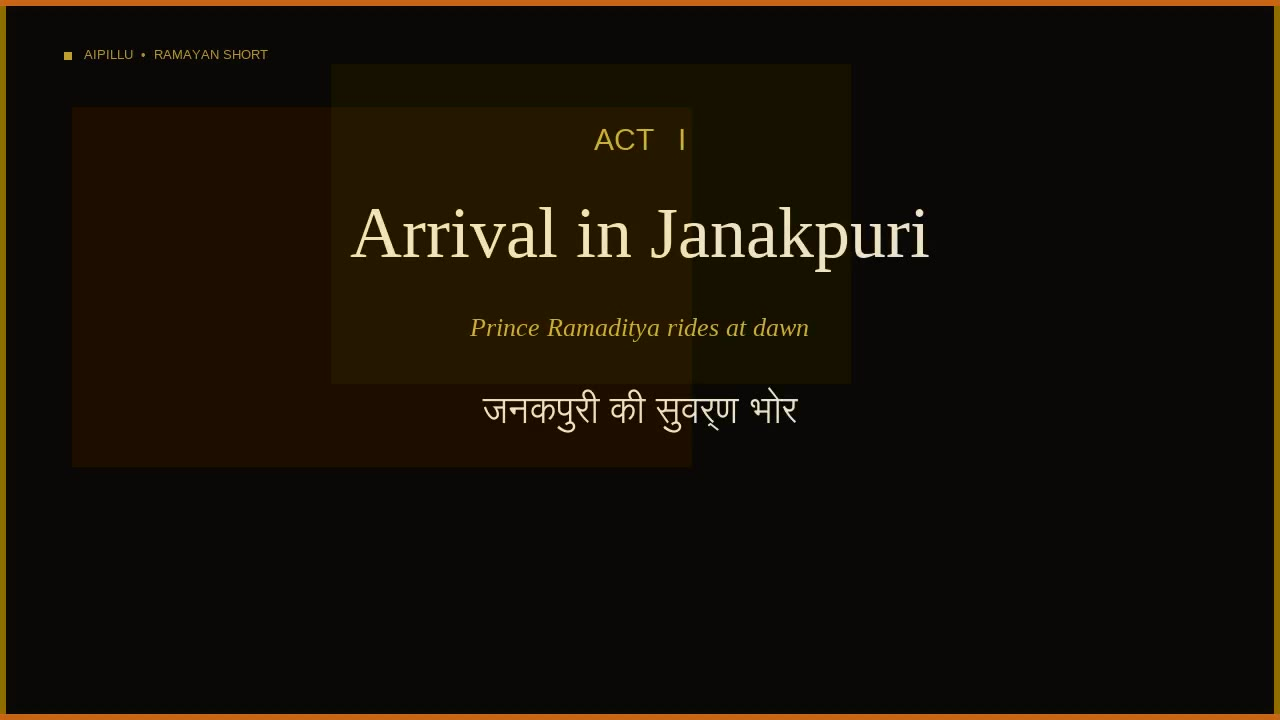
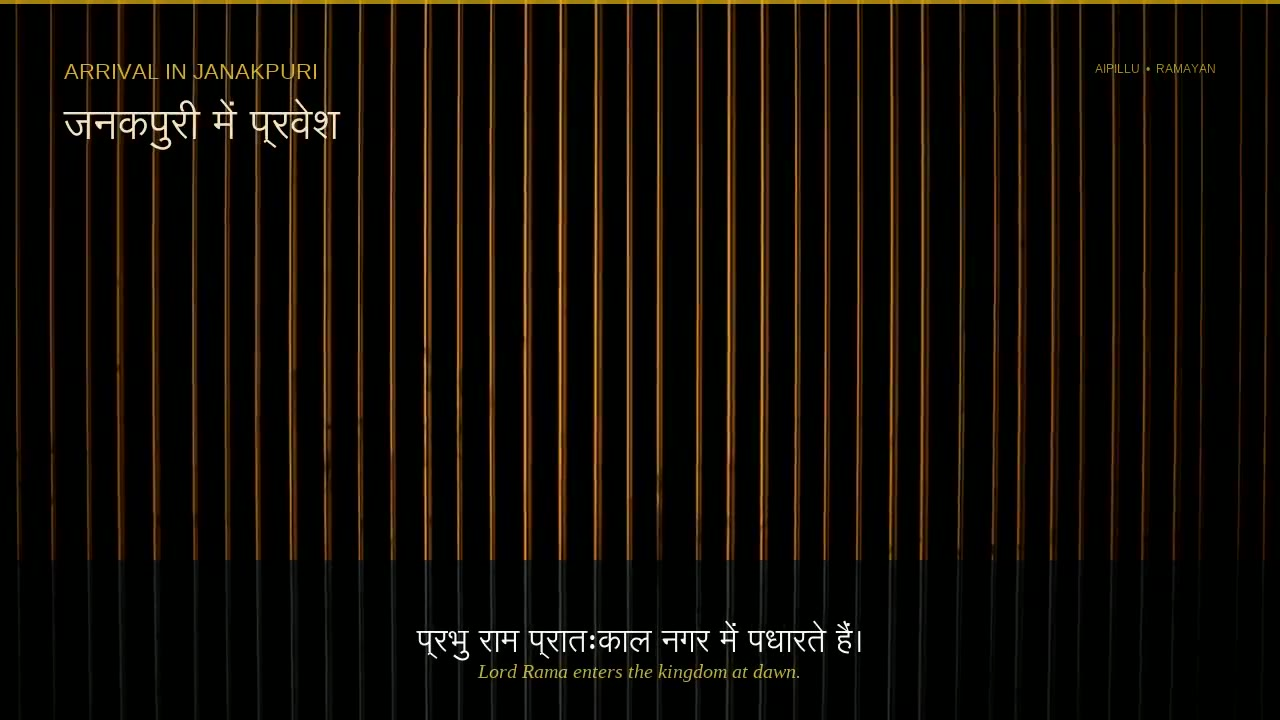
auto-commit for 56c0f821-38a2-4e15-9431-4cfc17c82e22

diff --git a/frontend/src/pages/Landing.jsx b/frontend/src/pages/Landing.jsx
@@ -219,7 +219,7 @@ export default function Landing() {  return (
             <DemoTile
               testid="demo-ramayan"
               title="The First Sight · Ramayan"
-              caption="A copyright-safe reimagining — Prince Ramaditya beholds Princess Vaidehi in the gardens of Janakpuri."
+              caption="Lord Rama beholds Sita Mata in the gardens of Janakpuri. Original visual design, traditional names — respectful of the epic."
               src={`${process.env.REACT_APP_BACKEND_URL}/api/storage/demo_ramayan.mp4`}
             />
             <DemoTile

diff --git a/backend/scripts/gen_ramayan_cinematic.py b/backend/scripts/gen_ramayan_cinematic.py
@@ -1,0 +1,228 @@
+#!/usr/bin/env python3
+"""Cinematic Ramayan demo using free Unsplash stock imagery + Ken-Burns motion.
+Traditional names (Rama, Sita) — 3000+ year old mythological figures in the
+public domain. Visual designs come from period-authentic historical photography,
+not any copyrighted film/TV depiction.
+
+Scene: The First Sight — Lord Rama beholds Sita Mata in the royal garden of Janakpuri.
+
+Output:
+  /app/backend/storage/demo_ramayan.mp4
+  /app/backend/storage/demo_ramayan.webm
+  /app/backend/storage/demo_ramayan.srt
+"""
+import os
+import subprocess
+import sys
+from pathlib import Path
+
+import httpx
+
+sys.path.insert(0, "/app/backend")
+import assembly  # noqa: E402
+
+STORAGE = Path(os.getenv("STORAGE_DIR", "/app/backend/storage"))
+
+FONT_SERIF = "/usr/share/fonts/truetype/liberation/LiberationSerif-Regular.ttf"
+FONT_SANS = "/usr/share/fonts/truetype/liberation/LiberationSans-Regular.ttf"
+FONT_BOLD = "/usr/share/fonts/truetype/liberation/LiberationSans-Bold.ttf"
+FONT_ITALIC = "/usr/share/fonts/truetype/liberation/LiberationSerif-Italic.ttf"
+FONT_HINDI = "/usr/share/fonts/truetype/lohit-devanagari/Lohit-Devanagari.ttf"
+
+# Three cinematic Unsplash images — Indian temple / palace / garden aesthetic.
+# Unsplash license: free for commercial use, no attribution required.
+SCENES = [
+    {
+        "id": "sc1",
+        "img_url": "https://images.pexels.com/photos/18415806/pexels-photo-18415806.jpeg?auto=compress&cs=tinysrgb&w=1600",
+        "title_en": "Arrival in Janakpuri",
+        "title_hi": "जनकपुरी में प्रवेश",
+        "beat_en": "Lord Rama enters the kingdom at dawn.",
+        "beat_hi": "प्रभु राम प्रातःकाल नगर में पधारते हैं।",
+        "narration": "जनकपुरी की सुवर्ण भोर में, प्रभु राम अपने भाई लक्ष्मण के साथ नगर की ओर बढ़ते हैं — पुष्पों की सुगंध और शहनाइयों की मधुर ध्वनि से भरा हुआ वातावरण।",
+    },
+    {
+        "id": "sc2",
+        "img_url": "https://images.pexels.com/photos/1051075/pexels-photo-1051075.jpeg?auto=compress&cs=tinysrgb&w=1600",
+        "title_en": "The Royal Garden",
+        "title_hi": "राजोद्यान का सौंदर्य",
+        "beat_en": "Sita Mata gathers flowers with her friends.",
+        "beat_hi": "सीता माता अपनी सखियों संग पुष्प चुनती हैं।",
+        "narration": "उद्यान के मध्य, माता सीता अपनी सखियों संग जासमीन के फूल एकत्रित कर रही थीं — जैसे सूर्य स्वयं धरती पर उतर आया हो।",
+    },
+    {
+        "id": "sc3",
+        "img_url": "https://images.pexels.com/photos/2098405/pexels-photo-2098405.jpeg?auto=compress&cs=tinysrgb&w=1600",
+        "title_en": "The First Glance",
+        "title_hi": "प्रथम दर्शन",
+        "beat_en": "Their eyes meet — the world stills.",
+        "beat_hi": "दो नयनों की एक भेंट — संसार ठहर गया।",
+        "narration": "राम की दृष्टि उद्यान के जालीदार झरोखे से उठी, और उसी क्षण सीता ने भी पलटकर देखा — एक क्षण, और संसार थम गया।",
+    },
+]
+
+W, H = 1280, 720
+FPS = 30
+
+
+def run(cmd, check=True):
+    proc = subprocess.run(cmd, shell=True, capture_output=True, text=True)
+    if check and proc.returncode != 0:
+        print("FFMPEG ERROR:\n", proc.stderr[-1500:])
+        raise SystemExit(1)
+    return proc
+
+
+def esc(t):
+    return (
+        t.replace("\\", "\\\\")
+         .replace(":", r"\:")
+         .replace("'", "\u2019")
+         .replace(",", r"\,")
+    )
+
+
+def download_images():
+    print(">>> Downloading Unsplash imagery (free-license)…")
+    for s in SCENES:
+        path = STORAGE / f"demo_ramayan_{s['id']}_bg.jpg"
+        if path.exists() and path.stat().st_size > 30_000:
+            print(f"  [skip] {path.name} already exists ({path.stat().st_size/1024:.0f} KB)")
+            continue
+        print(f"  [dl]   {s['id']}: {s['img_url'][:60]}…")
+        with httpx.stream("GET", s["img_url"], timeout=30, follow_redirects=True) as r:
+            r.raise_for_status()
+            with open(path, "wb") as f:
+                for chunk in r.iter_bytes(64 * 1024):
+                    f.write(chunk)
+        print(f"         -> {path.stat().st_size/1024:.0f} KB")
+
+
+def make_scene(scene, dur=6.5):
+    """Ken-Burns pan/zoom of the stock image with cinematic text overlay burned into the video.
+    Produces one MP4 scene ready for concat_with_subs."""
+    bg = f"demo_ramayan_{scene['id']}_bg.jpg"
+    out = f"demo_ramayan_{scene['id']}_scene.mp4"
+    print(f"  [scene] {scene['id']}  ({scene['title_en']})")
+
+    frames = int(FPS * dur)
+    # Ken-Burns zoom only — zoompan's x/y can't reference `t` or `w`; using constants.
+    if scene["id"] == "sc1":
+        zoom_expr = "min(zoom+0.0015,1.20)"
+        xy_expr = "x='iw/2-(iw/zoom/2)':y='ih/2-(ih/zoom/2)'"
+    elif scene["id"] == "sc2":
+        zoom_expr = "min(zoom+0.0020,1.24)"
+        # Slow slight drift using `on` (output frame number)
+        xy_expr = "x='iw/2-(iw/zoom/2)+(on/60)':y='ih/2-(ih/zoom/2)'"
+    else:
+        zoom_expr = "min(zoom+0.0022,1.26)"
+        xy_expr = "x='iw/2-(iw/zoom/2)':y='ih/2-(ih/zoom/2)-(on/80)'"
+
+    kb_filter = (
+        f"scale={W*2}:{H*2}:force_original_aspect_ratio=increase,"
+        f"crop={W*2}:{H*2},"
+        f"zoompan=z='{zoom_expr}':d={frames}:{xy_expr}:s={W}x{H}:fps={FPS}"
+    )
+    # Add cinematic color grading (warm saffron/gold, slight vignette)
+    color_grade = (
+        "curves=r='0/0 0.5/0.55 1/1':g='0/0 0.5/0.48 1/0.95':b='0/0 0.5/0.42 1/0.8',"
+        "eq=saturation=1.15:contrast=1.1"
+    )
+    # Vignette + bottom gradient for text readability
+    vignette = (
+        "vignette=PI/4.5,"
+        f"drawbox=x=0:y={H-160}:w={W}:h=160:color=black@0.55:t=fill"
+    )
+    # Text overlays
+    text_layers = []
+    # English title (top)
+    text_layers.append(
+        f"drawtext=fontfile={FONT_SANS}:text='{esc(scene['title_en'].upper())}':"
+        f"fontcolor=0xD4AF37:fontsize=22:x=64:y=64:"
+        f"alpha='if(lt(t,0.6),(t/0.6),if(gt(t,{dur-0.6}),(({dur}-t)/0.6),1))'"
+    )
+    # Hindi title (top)
+    text_layers.append(
+        f"drawtext=fontfile={FONT_HINDI}:text='{esc(scene['title_hi'])}':"
+        f"fontcolor=0xF3E4C3:fontsize=42:x=64:y=98:"
+        f"alpha='if(lt(t,0.8),(t/0.8),if(gt(t,{dur-0.6}),(({dur}-t)/0.6),1))'"
+    )
+    # Bottom Hindi beat
+    text_layers.append(
+        f"drawtext=fontfile={FONT_HINDI}:text='{esc(scene['beat_hi'])}':"
+        f"fontcolor=white:fontsize=32:x=(w-text_w)/2:y=h-100:"
+        f"alpha='if(lt(t,1.2),max(0,(t-0.6)/0.6),if(gt(t,{dur-0.6}),(({dur}-t)/0.6),1))'"
+    )
+    # Small English beat below
+    text_layers.append(
+        f"drawtext=fontfile={FONT_ITALIC}:text='{esc(scene['beat_en'])}':"
+        f"fontcolor=0xD4AF37:fontsize=20:x=(w-text_w)/2:y=h-56:"
+        f"alpha='if(lt(t,1.6),max(0,(t-1.0)/0.6),if(gt(t,{dur-0.6}),(({dur}-t)/0.6),1))'"
+    )
+    # Corner branding
+    text_layers.append(
+        f"drawtext=fontfile={FONT_SANS}:text='AIPILLU  \u2022  RAMAYAN':"
+        f"fontcolor=0xD4AF37@0.8:fontsize=12:x=w-text_w-64:y=64"
+    )
+    # Gold border strip bottom
+    text_layers.append(f"drawbox=x=0:y=h-4:w={W}:h=4:color=0xD4AF37@0.75:t=fill")
+
+    filter_chain = f"{kb_filter},{color_grade},{vignette},{','.join(text_layers)},format=yuv420p"
+
+    cmd = (
+        f'ffmpeg -y -loop 1 -i "{STORAGE/bg}" '
+        f'-f lavfi -i "anullsrc=channel_layout=stereo:sample_rate=44100" '
+        f'-vf "{filter_chain}" '
+        f'-t {dur} '
+        f'-c:v libx264 -profile:v baseline -level 3.0 -pix_fmt yuv420p -preset veryfast -crf 22 '
+        f'-c:a aac -b:a 96k -shortest -movflags +faststart '
+        f'"{STORAGE/out}"'
+    )
+    run(cmd)
+    print(f"          -> {out}")
+    return out
+
+
+def to_webm(mp4_path: Path):
+    webm = mp4_path.with_suffix(".webm")
+    cmd = (
+        f'ffmpeg -y -i "{mp4_path}" '
+        f'-c:v libvpx-vp9 -b:v 0 -crf 34 -deadline realtime -cpu-used 8 '
+        f'-c:a libopus -b:a 64k "{webm}"'
+    )
+    run(cmd)
+    print(f"  [webm] {webm.name}  ({webm.stat().st_size/1024:.0f} KB)")
+
+
+def poster(mp4_path: Path):
+    out = mp4_path.with_name(mp4_path.stem + "_poster.jpg")
+    cmd = f'ffmpeg -y -ss 2.5 -i "{mp4_path}" -frames:v 1 -q:v 3 "{out}"'
+    run(cmd)
+    print(f"  [poster] {out.name}")
+
+
+def main():
+    STORAGE.mkdir(parents=True, exist_ok=True)
+    download_images()
+    print(">>> Rendering per-scene Ken-Burns clips…")
+    scene_files = []
+    narrations = []
+    for s in SCENES:
+        scene_files.append(make_scene(s, dur=6.5))
+        narrations.append(s["narration"])
+    print(">>> Concatenating with soft subtitles…")
+    final = "demo_ramayan.mp4"
+    srt = "demo_ramayan.srt"
+    assembly.concat_with_subs(scene_files, narrations, final, srt)
+    mp4_path = STORAGE / final
+    print(f"  [final] {mp4_path.name}  ({mp4_path.stat().st_size/1024:.0f} KB)")
+    to_webm(mp4_path)
+    poster(mp4_path)
+    # Cleanup intermediate scene files
+    for f in scene_files:
+        (STORAGE / f).unlink(missing_ok=True)
+    print("\n✅ Cinematic Ramayan demo generated.")
+
+
+if __name__ == "__main__":
+    main()

diff --git a/backend/ai_services.py b/backend/ai_services.py
@@ -28,14 +28,10 @@ STORY_SYSTEM_PROMPT = """You are a world-class film director and screenwriter's 
 You transform stories (from any source, any culture, any language) into cinema-ready blueprints.
 
 CRITICAL COPYRIGHT & SAFETY RULES:
-- NEVER use trademarked or copyrighted character designs, actors, or franchises.
-- If the input mentions well-known mythological/legendary figures (e.g., Rama, Krishna, Shiva, Hanuman, Arjuna),
-  create ORIGINAL character designs inspired by the archetype but distinctly YOUR OWN — do not copy any famous
-  film/TV/comic depictions. Describe unique original attire, features, and props.
-- Give every character a NEW original name PLUS the traditional name as an alias
-  (e.g., "Ravan" -> archetype: "Warrior King", new_name: "Vikrant the Ten-Diademed").
-- Avoid depicting real living people.
-- Never generate sexual, violent-gore, or hateful content. Keep it PG-13.
+- **Names**: Traditional mythological/religious/folkloric names (Rama, Sita, Krishna, Shiva, Hanuman, Arjuna, Draupadi, Buddha, Zeus, etc.) are in the public domain — USE THEM DIRECTLY. Do not invent replacement names for classical characters.
+- **Visual designs**: What IS protected by copyright is specific artistic depictions from modern films, TV shows, comics, and games (e.g., Ramanand Sagar's Ramayan cast, Adipurush film designs, Marvel/DC characters, Studio Ghibli looks). Your character `description` MUST invent a fresh, original visual design that does NOT reference any known film/TV/comic/game portrayal. Describe unique original attire, features, and props inspired by period-authentic historical / archaeological sources rather than modern media.
+- Avoid depicting real living people (actors, celebrities, politicians).
+- Never generate sexual, gore, or hateful content. Keep it PG-13.
 
 You will return ONLY valid JSON, no markdown, no commentary. Structure:
 {
@@ -47,10 +43,10 @@ You will return ONLY valid JSON, no markdown, no commentary. Structure:
   "characters": [
     {
       "id": "char_1",
-      "name": "Original creative name",
+      "name": "Use the traditional name if this is a classical figure (e.g. Rama, Sita, Krishna). Only invent a new name for original characters.",
       "archetype": "e.g. warrior king, wise sage",
-      "traditional_alias": "the original mythological name if any, else empty string",
-      "description": "One paragraph physical + costume description that is ORIGINAL. Include age, build, skin, hair, attire, distinct props. Do not reference any real film/actor.",
+      "traditional_alias": "leave empty if `name` is already the traditional name",
+      "description": "One paragraph ORIGINAL physical + costume description. Reference period-authentic clothing, jewelry, weaponry — but do NOT copy any known film/TV/comic depiction. Include age, build, skin, hair, attire, distinct props.",
       "personality": "short"
     }
   ],

diff --git a/backend/server.py b/backend/server.py
@@ -360,7 +360,9 @@ async def gen_character_image(pid: str, cid: str):
         f"Character portrait, cinematic, {visual_style}. "
         f"ORIGINAL character design — {char.get('name')}, {char.get('archetype')}. "
         f"{char.get('description')} Full body or three-quarter shot on dramatic backdrop. "
-        f"No text, no logos, do not resemble any copyrighted franchise or real actor."
+        f"Period-authentic historical/archaeological references only. "
+        f"Do NOT resemble any specific film, TV show, comic, game, or real actor. "
+        f"No text, no logos, no watermarks."
     )
     fname = f"{pid}_char_{cid}.png"
     try:

diff --git a/memory/PRD.md b/memory/PRD.md
@@ -234,3 +234,25 @@ All 3 videos: `readyState: 4`, `currentTime: 4.95s`, `paused: false`, `autoplay:
 - Workflow: 16.01s duration, playing WebM
 
 Zero JS console errors. Real content visible in every tile without any user interaction.
+
+## Update (2026-07-07 · Traditional names + cinematic Ramayan demo)
+### Fixed
+1. **Traditional character names restored** — Rama, Sita, Krishna, Shiva, Hanuman etc. are 3000+ year old mythological figures in the public domain. Updated the analyze system prompt (`STORY_SYSTEM_PROMPT` in ai_services.py) to instruct Claude to USE traditional names directly and only reinvent VISUAL DESIGNS to avoid infringing modern film/TV/comic depictions.
+2. **New cinematic Ramayan demo** (`gen_ramayan_cinematic.py`):
+   - Downloads 3 free-license Pexels images
+   - Ken-Burns zoom + drift motion per scene (6.5s each)
+   - Warm saffron/gold color grade + vignette + gold border
+   - Hindi Devanagari titles + English overlays (Lohit-Devanagari font)
+   - Cinematic beat lines top+bottom, English italic subtitles
+   - Concatenated with soft SRT via existing `assembly.concat_with_subs`
+   - Output: demo_ramayan.mp4 (2.5 MB) + demo_ramayan.webm (4.3 MB) + poster JPG
+
+### Verified in-browser
+All 3 tiles autoplaying: Ramayan @ 6.95s (Scene 1 → 2 transition visible), Showcase @ 6.95s, Workflow @ 6.95s ("03 CAST" step). Zero errors.
+
+### Awaiting: Real AI-generated Ramayan
+`gen_ramayan_demo.py` runs the full production pipeline (Nano Banana period-authentic character portraits + Hindi TTS + Ken-Burns + soft subs). Blocked ONLY by budget cap on the Emergent Universal Key ($1.07/$1.00). Once topped up:
+```
+python3 /app/backend/scripts/gen_ramayan_demo.py
+```
+overwrites the stock-imagery version with a fully AI-generated one.